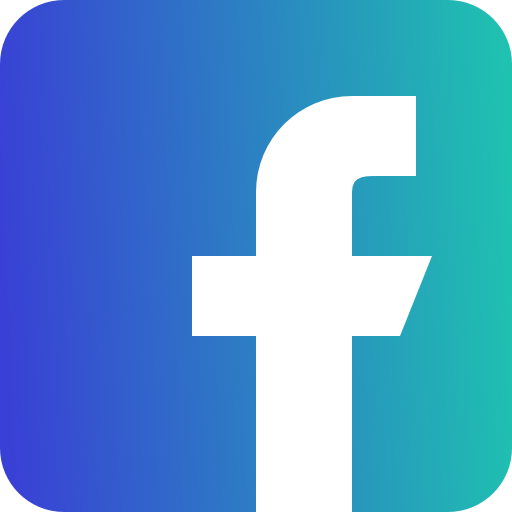
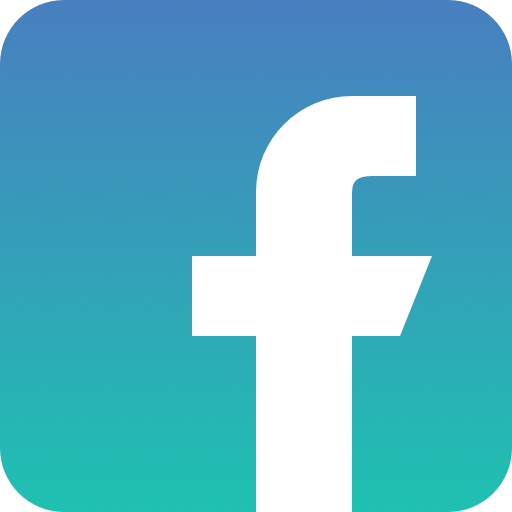
change colors

diff --git a/app/assets/stylesheets/pages/_home.scss b/app/assets/stylesheets/pages/_home.scss
@@ -295,9 +295,9 @@
   }
 
   #home-blue-background{
-    background: -webkit-linear-gradient(left, #3940D5, #1FC1B1 100%);
-    background: -o-linear-gradient(left, #3940D5, #1FC1B1 100%);
-    background: linear-gradient(to right, #3940D5, #1FC1B1 100%);
+    background: -webkit-linear-gradient(left, #487FC0, #1FC1B1 100%);
+    background: -o-linear-gradient(left, #487FC0, #1FC1B1 100%);
+    background: linear-gradient(to right, #487FC0, #1FC1B1 100%);
     text-align: center;
     color: white;
     padding: 60px 0;
@@ -324,8 +324,9 @@
     font-size:25px;
     font-weight: bold;
     margin: 13px 0;
-    color: #89f9ea;
+    color: #CAF9F2;
   }
+
 
   .icon-and-text-no-shaddow{
     text-align: center;

diff --git a/app/assets/stylesheets/config/_bootstrap_variables.scss b/app/assets/stylesheets/config/_bootstrap_variables.scss
@@ -120,9 +120,9 @@ input[type=number]::-webkit-outer-spin-button {
 }
 
 .modal-header{
-  background: -webkit-linear-gradient(left, #3940D5, #1FC1B1 100%);
-  background: -o-linear-gradient(left, #3940D5, #1FC1B1 100%);
-  background: linear-gradient(to right, #3940D5, #1FC1B1 100%);  color: #FFFFFF;
+  background: -webkit-linear-gradient(left, #487FC0, #1FC1B1 100%);
+  background: -o-linear-gradient(left, #487FC0, #1FC1B1 100%);
+  background: linear-gradient(to right, #487FC0, #1FC1B1 100%);  color: #FFFFFF;
   text-align: center;
   border-top-left-radius: 10px;
   border-top-right-radius: 10px;

diff --git a/app/assets/stylesheets/components/_footer.scss b/app/assets/stylesheets/components/_footer.scss
@@ -6,9 +6,9 @@
   position: relative;
   margin-bottom: 0px;
   bottom: 0;
-  background: -webkit-linear-gradient(left, #3940D5, #1FC1B1 100%);
-  background: -o-linear-gradient(left, #3940D5, #1FC1B1 100%);
-  background: linear-gradient(to right, #3940D5, #1FC1B1 100%);
+  background: -webkit-linear-gradient(left, #487FC0, #1FC1B1 100%);
+  background: -o-linear-gradient(left, #487FC0, #1FC1B1 100%);
+  background: linear-gradient(to right, #487FC0, #1FC1B1 100%);
   .footer-content{
     width: 80%;
     margin: 0 auto;

diff --git a/app/assets/stylesheets/seeds/_index.scss b/app/assets/stylesheets/seeds/_index.scss
@@ -261,7 +261,7 @@ a:hover {
     color: white;
     border-radius: 3px;
     padding: 0 10px 0 10px;
-    background-color: $blue;
+    background-color: #4c4c03;
   }
 
   .tech {

diff --git a/app/assets/stylesheets/users/_show.scss b/app/assets/stylesheets/users/_show.scss
@@ -388,8 +388,6 @@
     display: none;
     padding: 10px;
     width: 70%;
-    background-color: #F2F2F2;
-    border-radius: 5px;
 
     .new-card{
       margin-bottom: 5px;
